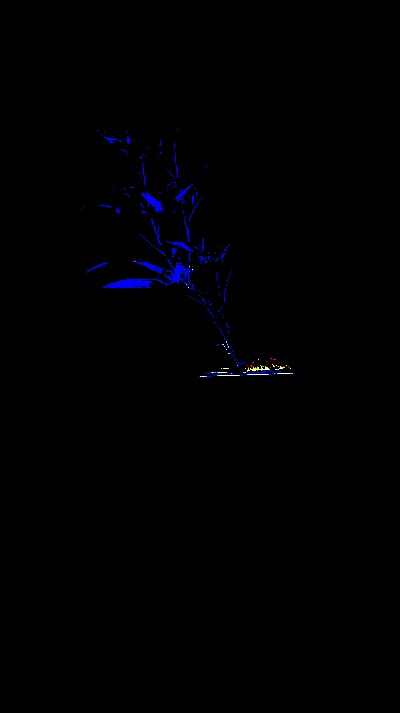
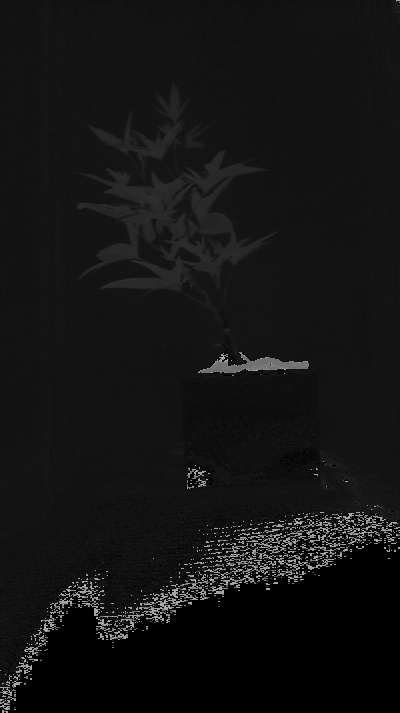
tercera prueba

diff --git a/binary-threshold.py b/binary-threshold.py
@@ -11,7 +11,7 @@ device=0
 # Create binary image from a gray image based on threshold values. Targeting light objects in the image.
 device, threshold_light = pcv.binary_threshold(img, 36, 255, 'dark', device, debug="print")
 device, h_channel=pcv.rgb2gray_hsv(img, 'h', device, debug="print")
-pcv.print_image(threshold_light, "/home/fitosmartplatform/plantCV/prueba/image-gray.jpg")
+pcv.print_image(h_channel, "/home/fitosmartplatform/plantCV/prueba/image-gray.jpg")
 pcv.print_image(threshold_light, "/home/fitosmartplatform/plantCV/prueba/test-image.jpg")
 """notas"""
 #si uso plot :imprime datos de la imagen no aguarda
